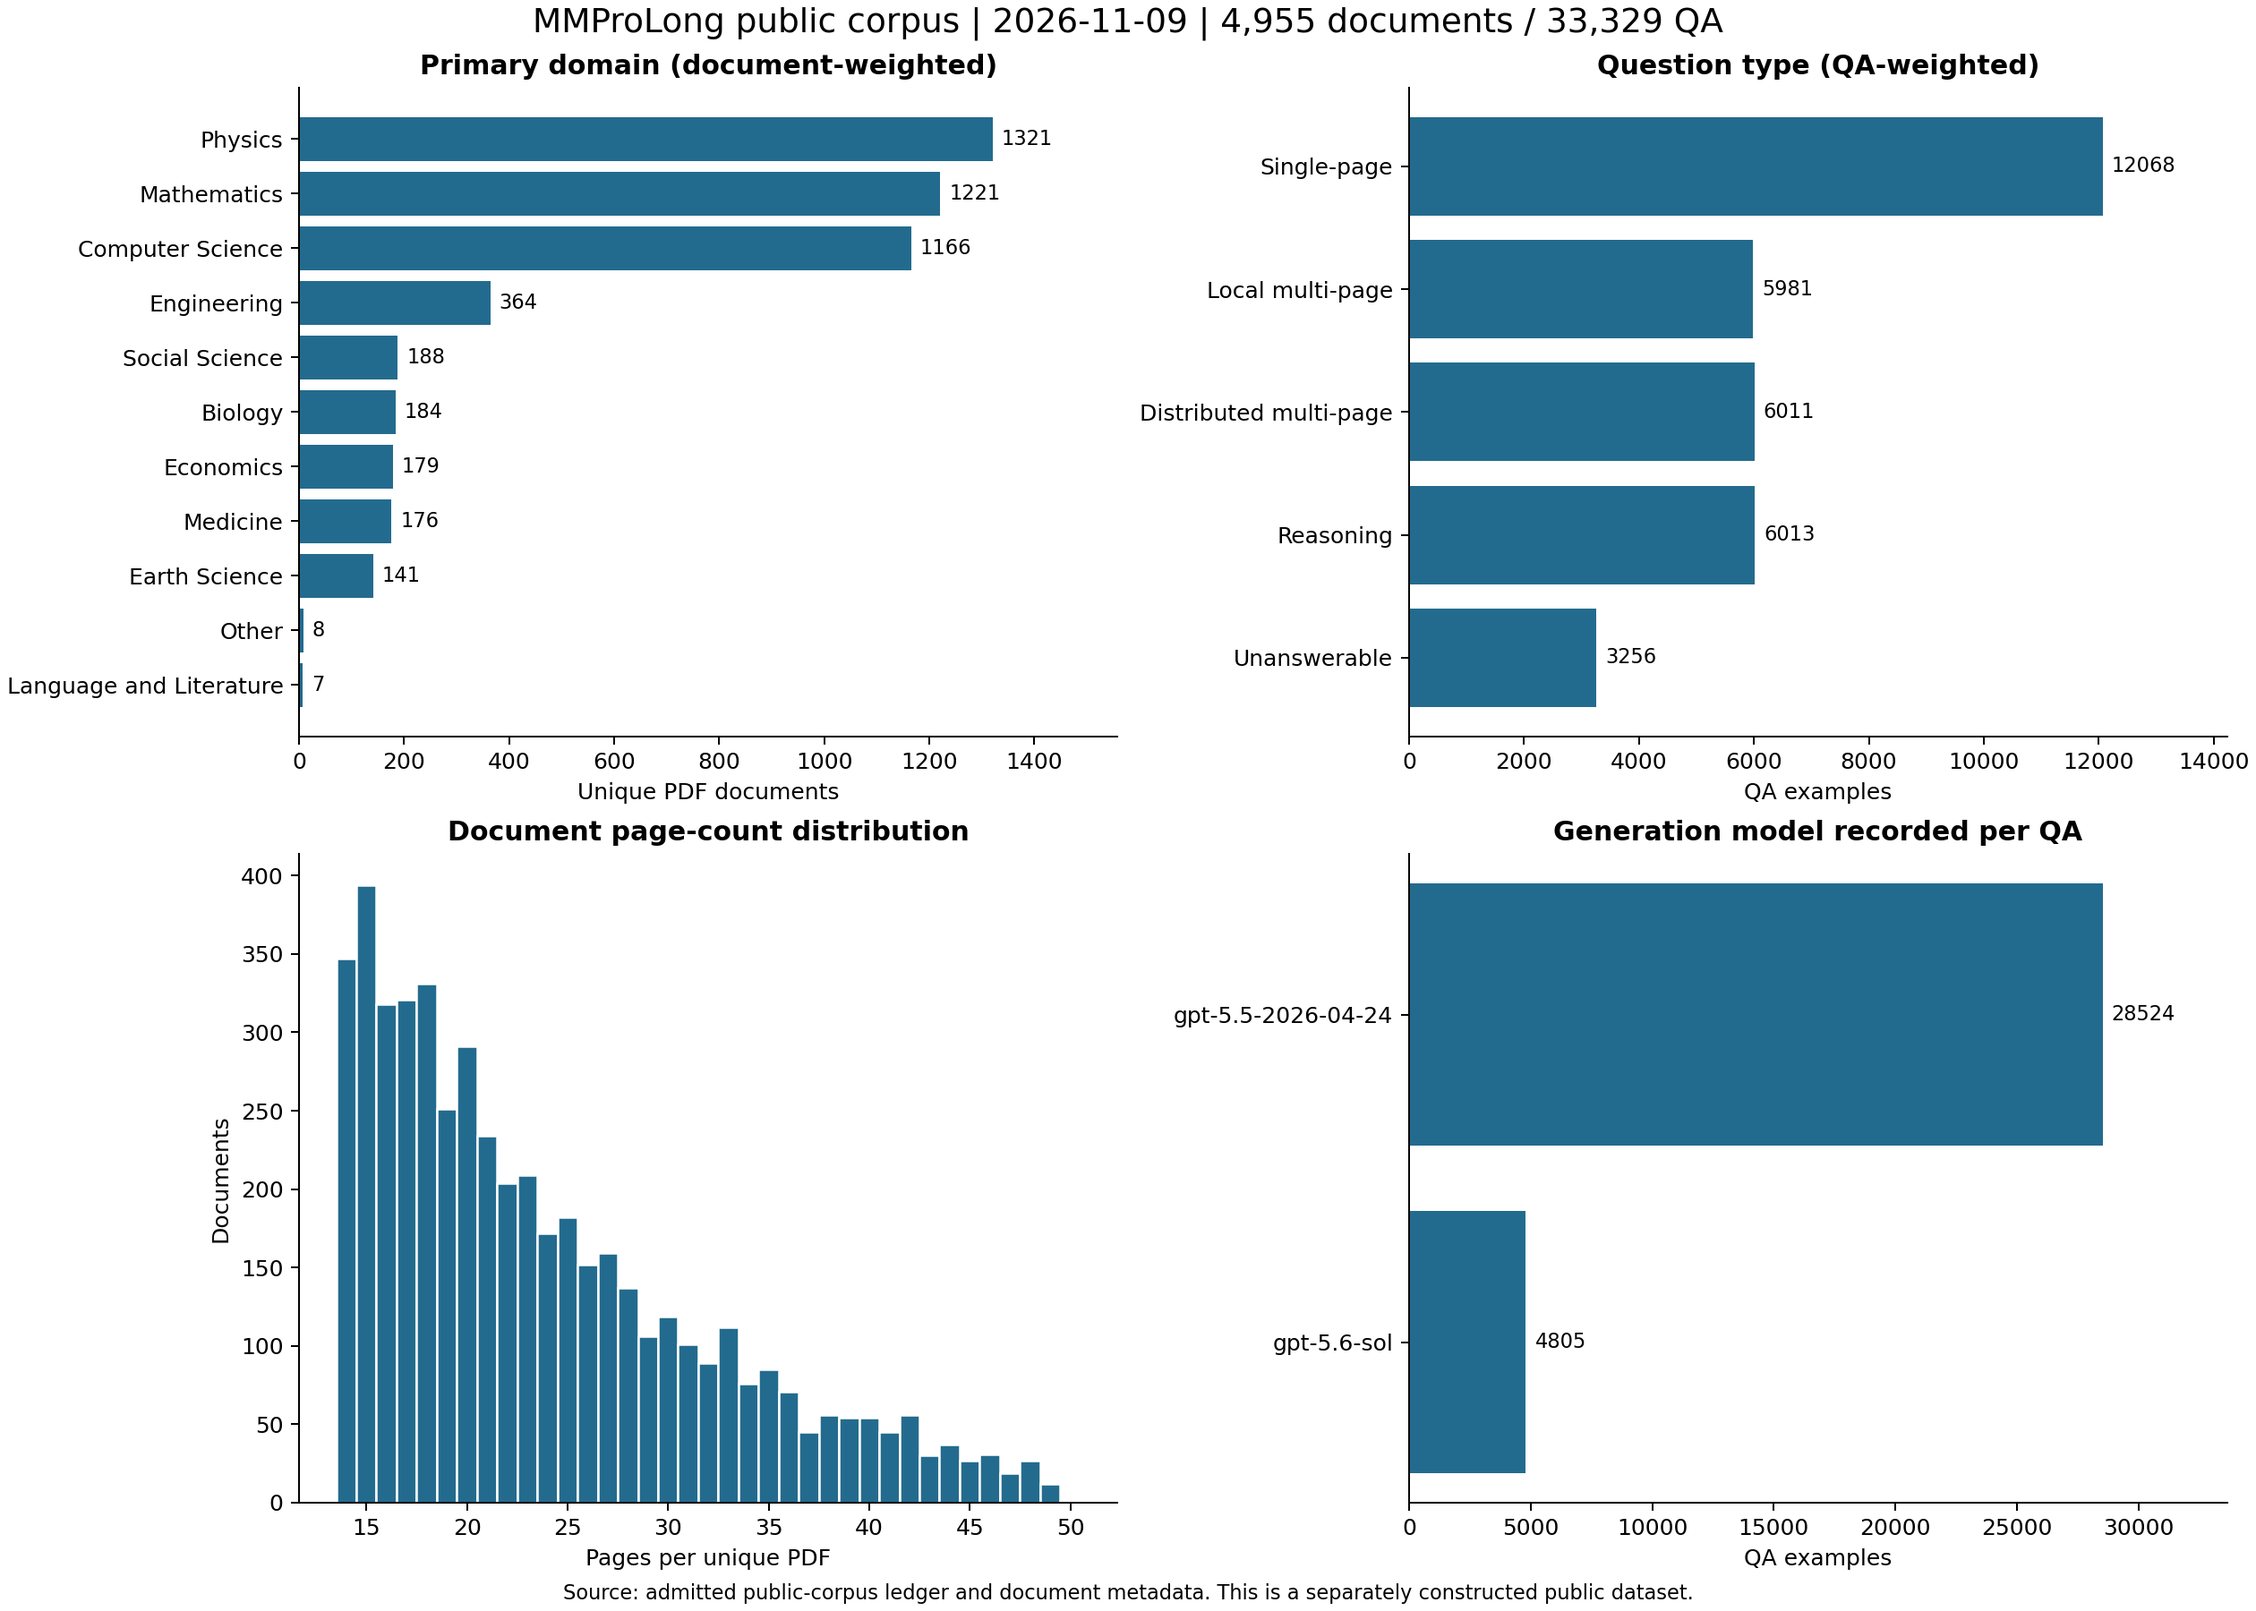
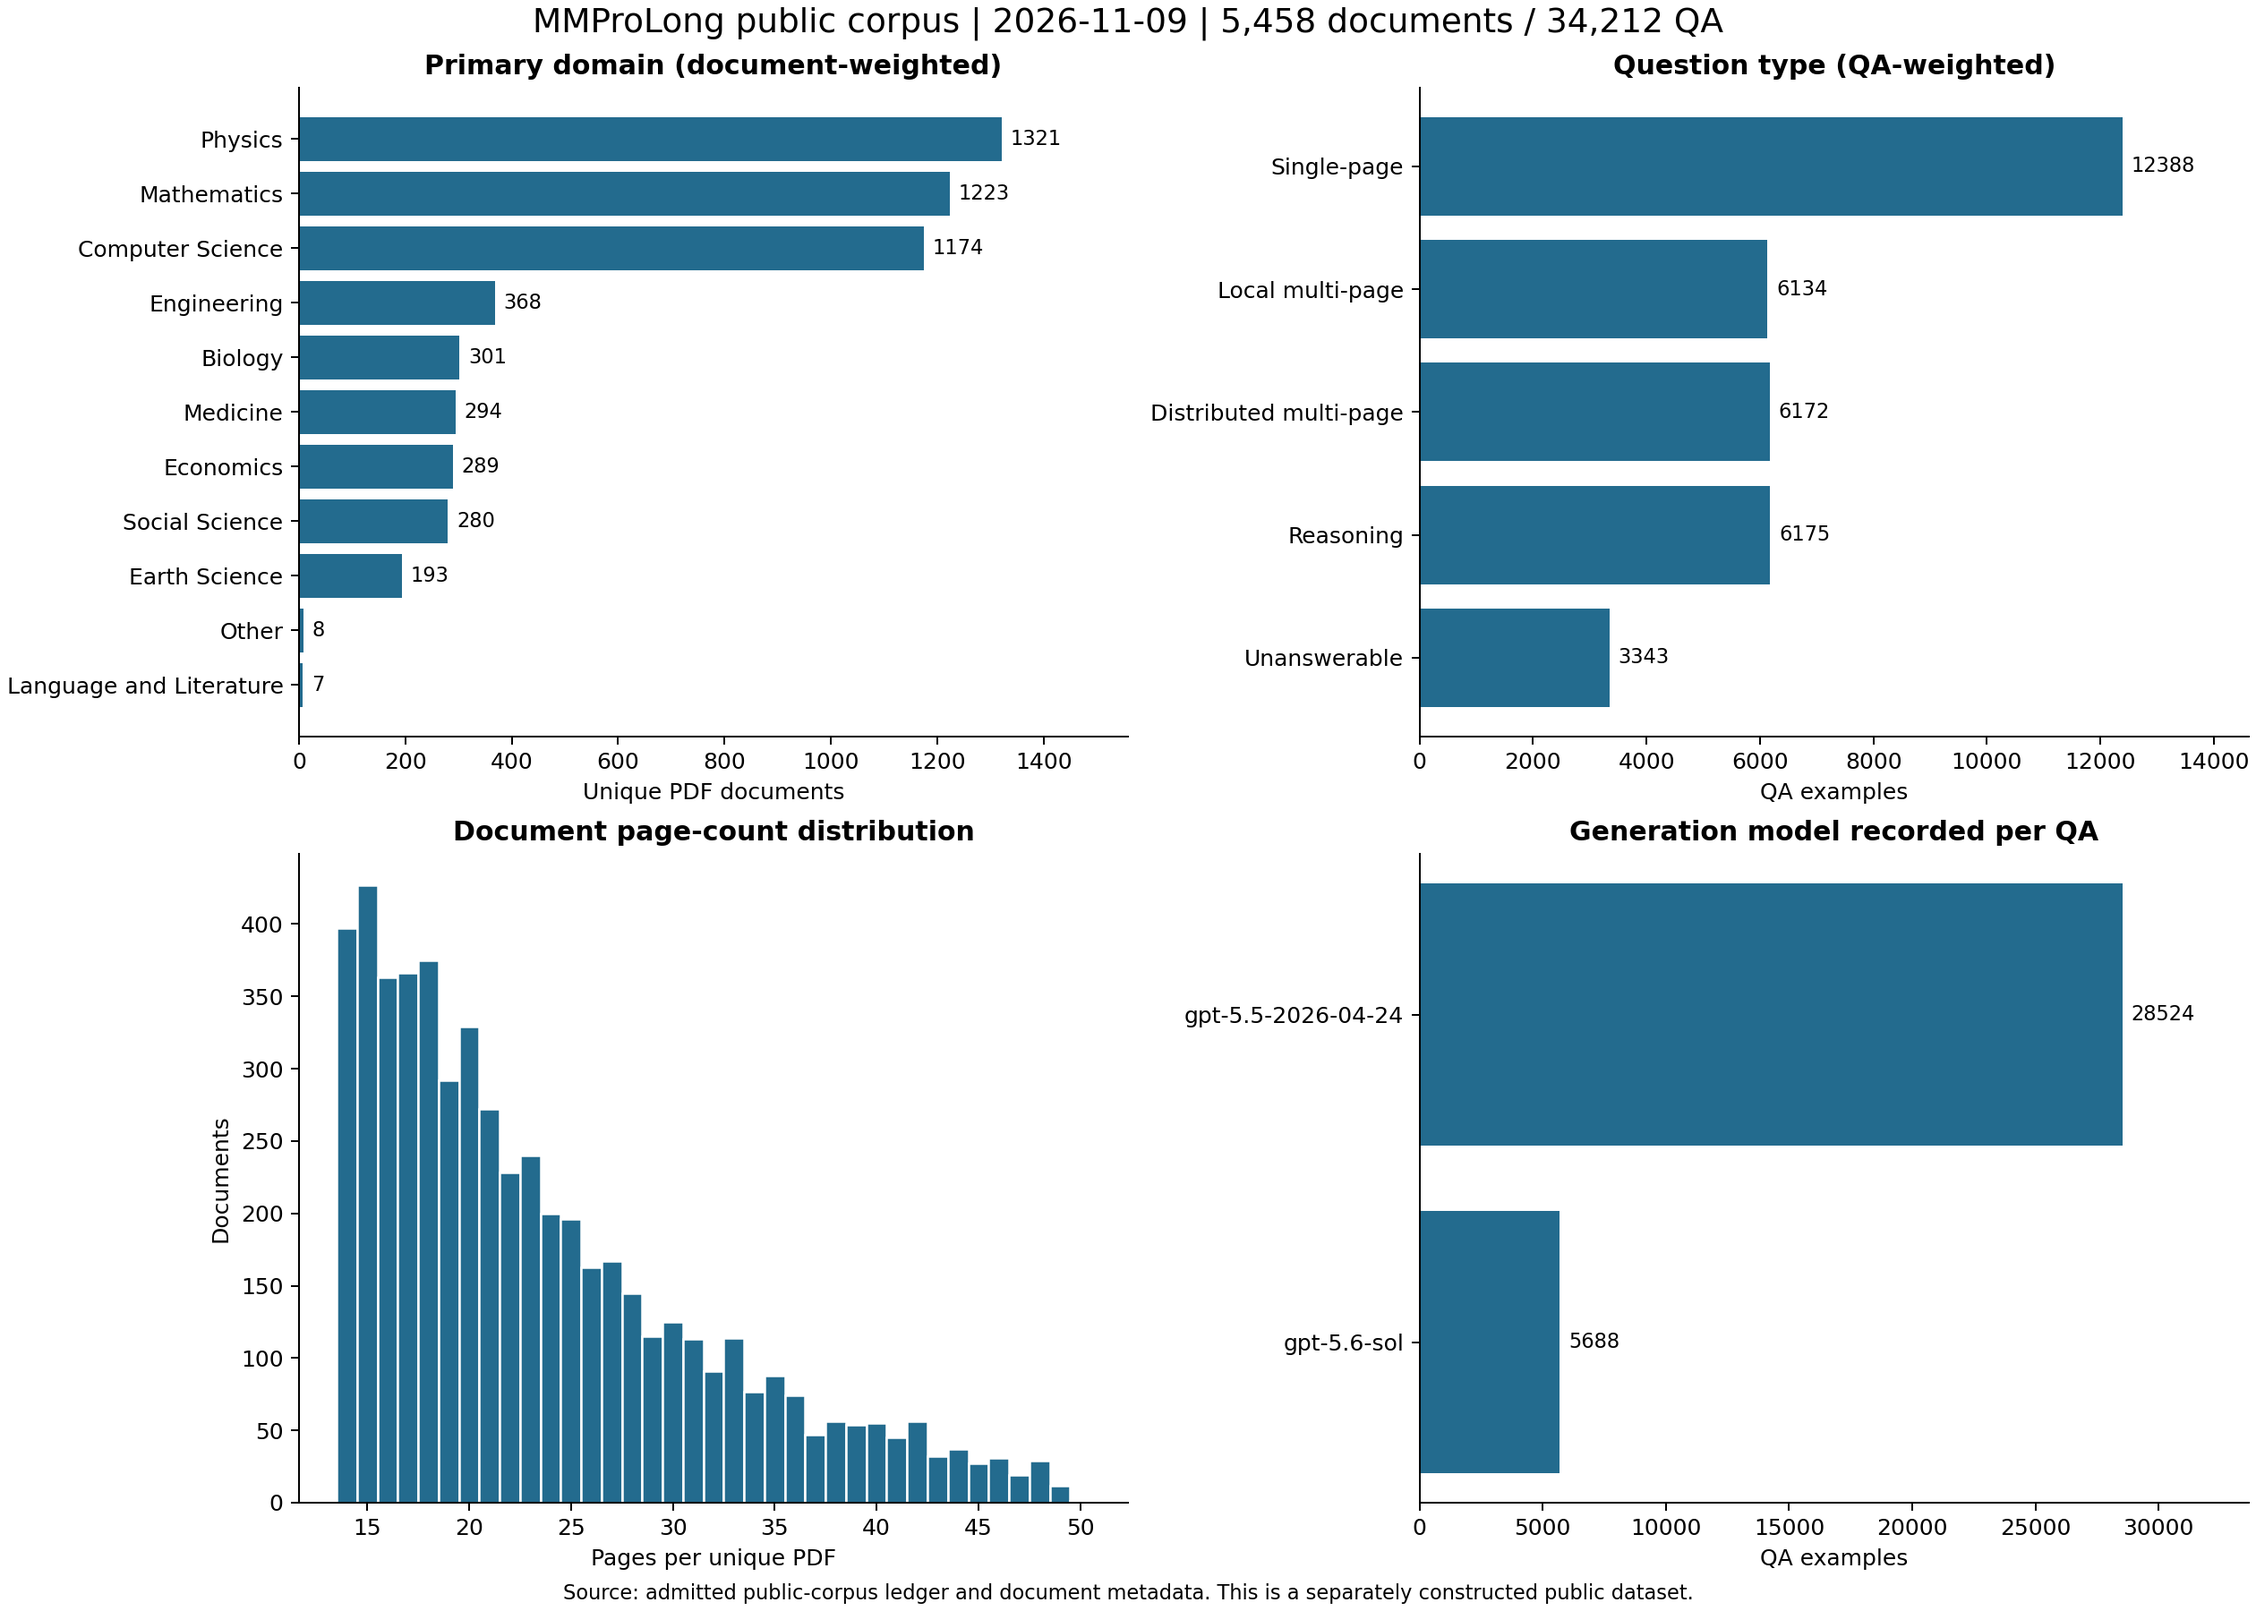
Update public corpus statistics to 2.079B measured tokens

diff --git a/docs/public_dataset.md b/docs/public_dataset.md
@@ -13,34 +13,34 @@ This page describes the admitted public snapshot identified below. It is a separ
 The manuscript defines binary prefixes (K=1024, B=2^30). Public tables use decimal K=1,000 and B=1,000,000,000; the >=100Ki statistic uses 102,400 to match the paper threshold. Exact raw counts and per-document labels are published with the dataset.
 
 <!-- PUBLIC_CORPUS_STATS_START -->
-**Public snapshot (2026-11-09): 33,329 QA examples, 4,955 source PDFs, 117,904 unique page images, and 2,033,196,094 estimated training tokens (approximately 2.033B).**
+**Public snapshot (2026-11-09): 34,212 QA examples, 5,458 source PDFs, 128,188 unique page images, and 2,079,092,954 estimated training tokens (approximately 2.079B).**
 
-[This published snapshot](https://huggingface.co/datasets/ZhaoweiWang/MMProLong-Data-Public/tree/4d73ff3f32bc0f33134707bd80a7d4899dba3660); [latest data](https://huggingface.co/datasets/ZhaoweiWang/MMProLong-Data-Public).
+[This published snapshot](https://huggingface.co/datasets/ZhaoweiWang/MMProLong-Data-Public/tree/d189e0d6766997ec76dc834f9e19aac2cef988b3); [latest data](https://huggingface.co/datasets/ZhaoweiWang/MMProLong-Data-Public).
 
 ### Corpus scale
 
 | Statistic | Public snapshot value |
 | --- | --- |
-| Admitted unique PDFs | 4,955 |
+| Admitted unique PDFs | 5,458 |
 | Document family | Public research papers |
-| Unique rendered page images | 117,904 |
-| Document pages: mean / median | 23.79 / 21 |
+| Unique rendered page images | 128,188 |
+| Document pages: mean / median | 23.49 / 21 |
 | Document pages: range / 5th-95th percentile | 14-50 / 14-41 |
-| Admitted QA examples | 33,329 |
-| Estimated training tokens | 2,033,196,094 (2.033B) |
-| Per-QA tokens: mean / median | 61.004K / 54.773K |
+| Admitted QA examples | 34,212 |
+| Estimated training tokens | 2,079,092,954 (2.079B) |
+| Per-QA tokens: mean / median | 60.771K / 53.469K |
 | Observed token range | 33,547-125,503 |
-| At least 100,000 tokens | 2,592 (7.78%) |
-| At least 100Ki = 102,400 tokens (paper threshold) | 2,178 (6.53%) |
-| Page references across all QA contexts | 800,203 |
+| At least 100,000 tokens | 2,602 (7.61%) |
+| At least 100Ki = 102,400 tokens (paper threshold) | 2,186 (6.39%) |
+| Page references across all QA contexts | 818,295 |
 
 ### Document sources
 
 | Source | Unique documents |
 | --- | --- |
 | arxiv | 4,386 |
-| elife | 1 |
-| plos | 568 |
+| elife | 17 |
+| plos | 1,055 |
 
 Tokens are the stored Qwen2.5-VL serialized-sample estimate, including full page-image context and QA/prompt text. A PDF used by several questions contributes its context repeatedly to the training-token total. This is not a count of unique-text tokens or billed API tokens. Page images are physically stored once per document.
 
@@ -50,12 +50,12 @@ Tokens are the stored Qwen2.5-VL serialized-sample estimate, including full page
 
 | Task | QA | Avg. pages | Avg. K tokens | B tokens | Pages | K-token range | >=100Ki |
 | --- | --- | --- | --- | --- | --- | --- | --- |
-| `single` | 12,068 | 23.89 | 60.68 | 0.732 | 14-50 | 33.80-125.13 | 6.47% |
-| `multi_local` | 5,981 | 23.99 | 61.04 | 0.365 | 14-50 | 33.85-125.50 | 6.47% |
-| `multi_distributed` | 6,011 | 23.96 | 60.93 | 0.366 | 14-50 | 33.84-125.29 | 6.55% |
-| `reasoning` | 6,013 | 23.99 | 60.90 | 0.366 | 14-50 | 33.55-125.11 | 6.25% |
-| `unanswerable` | 3,256 | 24.61 | 62.48 | 0.203 | 14-50 | 33.79-125.09 | 7.37% |
-| **Total** | 33,329 | 24.01 | 61.00 | 2.033 | 14-50 | 33.55-125.50 | 6.53% |
+| `single` | 12,388 | 23.80 | 60.44 | 0.749 | 14-50 | 33.80-125.13 | 6.34% |
+| `multi_local` | 6,134 | 23.93 | 60.88 | 0.373 | 14-50 | 33.85-125.50 | 6.33% |
+| `multi_distributed` | 6,172 | 23.87 | 60.68 | 0.374 | 14-50 | 33.84-125.29 | 6.40% |
+| `reasoning` | 6,175 | 23.88 | 60.64 | 0.374 | 14-50 | 33.55-125.11 | 6.09% |
+| `unanswerable` | 3,343 | 24.51 | 62.23 | 0.208 | 14-50 | 33.79-125.09 | 7.24% |
+| **Total** | 34,212 | 23.92 | 60.77 | 2.079 | 14-50 | 33.55-125.50 | 6.39% |
 
 `K = 1,000`, `B = 1,000,000,000`; `100Ki = 102,400` tokens. Average pages in this table are **QA-weighted**, whereas the corpus-scale document average counts each PDF once. The two multi-page rows may be combined for comparison with the paper's broader extraction category. Unanswerable QA is an additional public-data task. Exact values, quantiles, and the combined task grouping are in [`metadata/statistics.json`](https://huggingface.co/datasets/ZhaoweiWang/MMProLong-Data-Public/blob/main/metadata/statistics.json).
 
@@ -65,17 +65,17 @@ Tokens are the stored Qwen2.5-VL serialized-sample estimate, including full page
 
 | Primary domain | Documents | Document share | QA | QA share |
 | --- | --- | --- | --- | --- |
-| Physics | 1,321 | 26.66% | 9,282 | 27.85% |
-| Mathematics | 1,221 | 24.64% | 8,799 | 26.40% |
-| Computer Science | 1,166 | 23.53% | 9,005 | 27.02% |
-| Engineering | 364 | 7.35% | 2,665 | 8.00% |
-| Social Science | 188 | 3.79% | 840 | 2.52% |
-| Biology | 184 | 3.71% | 527 | 1.58% |
-| Economics | 179 | 3.61% | 824 | 2.47% |
-| Medicine | 176 | 3.55% | 708 | 2.12% |
-| Earth Science | 141 | 2.85% | 589 | 1.77% |
-| Other | 8 | 0.16% | 56 | 0.17% |
-| Language and Literature | 7 | 0.14% | 34 | 0.10% |
+| Physics | 1,321 | 24.20% | 9,282 | 27.13% |
+| Mathematics | 1,223 | 22.41% | 8,802 | 25.73% |
+| Computer Science | 1,174 | 21.51% | 9,019 | 26.36% |
+| Engineering | 368 | 6.74% | 2,673 | 7.81% |
+| Biology | 301 | 5.51% | 723 | 2.11% |
+| Medicine | 294 | 5.39% | 920 | 2.69% |
+| Economics | 289 | 5.29% | 1,020 | 2.98% |
+| Social Science | 280 | 5.13% | 1,003 | 2.93% |
+| Earth Science | 193 | 3.54% | 680 | 1.99% |
+| Other | 8 | 0.15% | 56 | 0.16% |
+| Language and Literature | 7 | 0.13% | 34 | 0.10% |
 
 Document and QA shares differ because historical phases generated different numbers of questions per PDF. Domain labels describe the source PDF, not a separate topic inferred for each question.
 
@@ -83,21 +83,21 @@ Document and QA shares differ because historical phases generated different numb
 
 | Answer format | QA | Share |
 | --- | --- | --- |
-| Integer | 5,024 | 15.07% |
-| Float | 1,672 | 5.02% |
-| List | 11,160 | 33.48% |
-| String | 12,217 | 36.66% |
-| Unanswerable | 3,256 | 9.77% |
+| Integer | 5,175 | 15.13% |
+| Float | 1,807 | 5.28% |
+| List | 11,500 | 33.61% |
+| String | 12,387 | 36.21% |
+| Unanswerable | 3,343 | 9.77% |
 
-There are **30,073 answerable** and **3,256 unanswerable** QA examples. The observed necessary-evidence page counts are: 0 pages: 3,256, 1 pages: 15,196, 2 pages: 9,914, 3 pages: 3,968, 4 pages: 993, 6 pages: 1, 7 pages: 1.
+There are **30,869 answerable** and **3,343 unanswerable** QA examples. The observed necessary-evidence page counts are: 0 pages: 3,343, 1 pages: 15,589, 2 pages: 10,220, 3 pages: 4,034, 4 pages: 1,022, 5 pages: 2, 6 pages: 1, 7 pages: 1.
 
 <details>
 <summary>Observed QA count per source document</summary>
 
 | QA per document | Documents |
 | --- | --- |
-| 1 | 291 |
-| 2 | 2,257 |
+| 1 | 414 |
+| 2 | 2,637 |
 | 6 | 1 |
 | 8 | 1 |
 | 9 | 7 |
@@ -115,8 +115,8 @@ The 20-QA documents belong to the initial pilot; the two-QA limit applies to the
 | Recorded method | QA |
 | --- | --- |
 | legacy_full_document | 32,432 |
-| released_prompt_window_v1 | 551 |
-| document_tool_agent_v1 | 346 |
+| released_prompt_window_v1 | 1,103 |
+| document_tool_agent_v1 | 677 |
 
 ### Domain-label provenance
 
@@ -125,18 +125,18 @@ The 20-QA documents belong to the initial pilot; the two-QA limit applies to the
 | majority of full-context generator domain labels | 4,330 |
 | arXiv primary category mapping | 113 |
 | manual primary-topic classification for validated pilot batches | 9 |
-| majority of independent full-document verifier topic labels | 487 |
-| Crossref subject-query sampling; provisional until generator topic vote | 16 |
+| majority of independent full-document verifier topic labels | 982 |
+| Crossref subject-query sampling; provisional until generator topic vote | 24 |
 
 ## Document language
 
 | Estimated document language | Documents | Document share | Associated QA |
 | --- | --- | --- | --- |
-| English (`en`) | 4,950 | 99.899% | 33,289 |
-| Spanish (`es`) | 2 | 0.040% | 14 |
-| French (`fr`) | 1 | 0.020% | 2 |
-| Russian (`ru`) | 1 | 0.020% | 12 |
-| Chinese (`zh`) | 1 | 0.020% | 12 |
+| English (`en`) | 5,453 | 99.908% | 34,172 |
+| Spanish (`es`) | 2 | 0.037% | 14 |
+| French (`fr`) | 1 | 0.018% | 2 |
+| Russian (`ru`) | 1 | 0.018% | 12 |
+| Chinese (`zh`) | 1 | 0.018% | 12 |
 
 Language labels are automatic estimates from sampled embedded PDF text; non-English/uncertain predictions receive a prose-filter recheck. They are not human-verified. Method, sampled pages, scores and recheck provenance are retained with each document.
 
@@ -144,14 +144,14 @@ Language labels are automatic estimates from sampled embedded PDF text; non-Engl
 
 | Recorded generation model | Documents | QA | QA share | B training tokens |
 | --- | --- | --- | --- | --- |
-| `gpt-5.5-2026-04-24` | 2,407 | 28,524 | 85.58% | 1.745 |
-| `gpt-5.6-sol` | 2,548 | 4,805 | 14.42% | 0.289 |
+| `gpt-5.5-2026-04-24` | 2,407 | 28,524 | 83.37% | 1.745 |
+| `gpt-5.6-sol` | 3,051 | 5,688 | 16.63% | 0.334 |
 
 | Phase | Documents | QA | Maximum QA per document |
 | --- | --- | --- | --- |
 | Initial pilot (GPT-5.5) | 4 | 80 | 20 |
 | GPT-5.5 production | 2,403 | 28,444 | 12 |
-| Current GPT-5.6 production | 2,548 | 4,805 | 2 |
+| Current GPT-5.6 production | 3,051 | 5,688 | 2 |
 
 The current snapshot is a **mixed-model historical release**, not an all-GPT-5.6 corpus. Use the `model` field when a model-specific subset is required.
 

diff --git a/README.md b/README.md
@@ -40,7 +40,7 @@ Please check out the [paper](https://arxiv.org/abs/2605.13831) for the study and
 ## 📢 Latest Updates
 
 <!-- PUBLIC_CORPUS_SUMMARY_START -->
-**Public snapshot (2026-11-09): 33,329 QA examples, 4,955 source PDFs, 117,904 unique page images, and 2,033,196,094 estimated training tokens (approximately 2.033B).**
+**Public snapshot (2026-11-09): 34,212 QA examples, 5,458 source PDFs, 128,188 unique page images, and 2,079,092,954 estimated training tokens (approximately 2.079B).**
 
 [Dataset](https://huggingface.co/datasets/ZhaoweiWang/MMProLong-Data-Public) | [Statistics](docs/public_dataset.md)
 <!-- PUBLIC_CORPUS_SUMMARY_END -->
